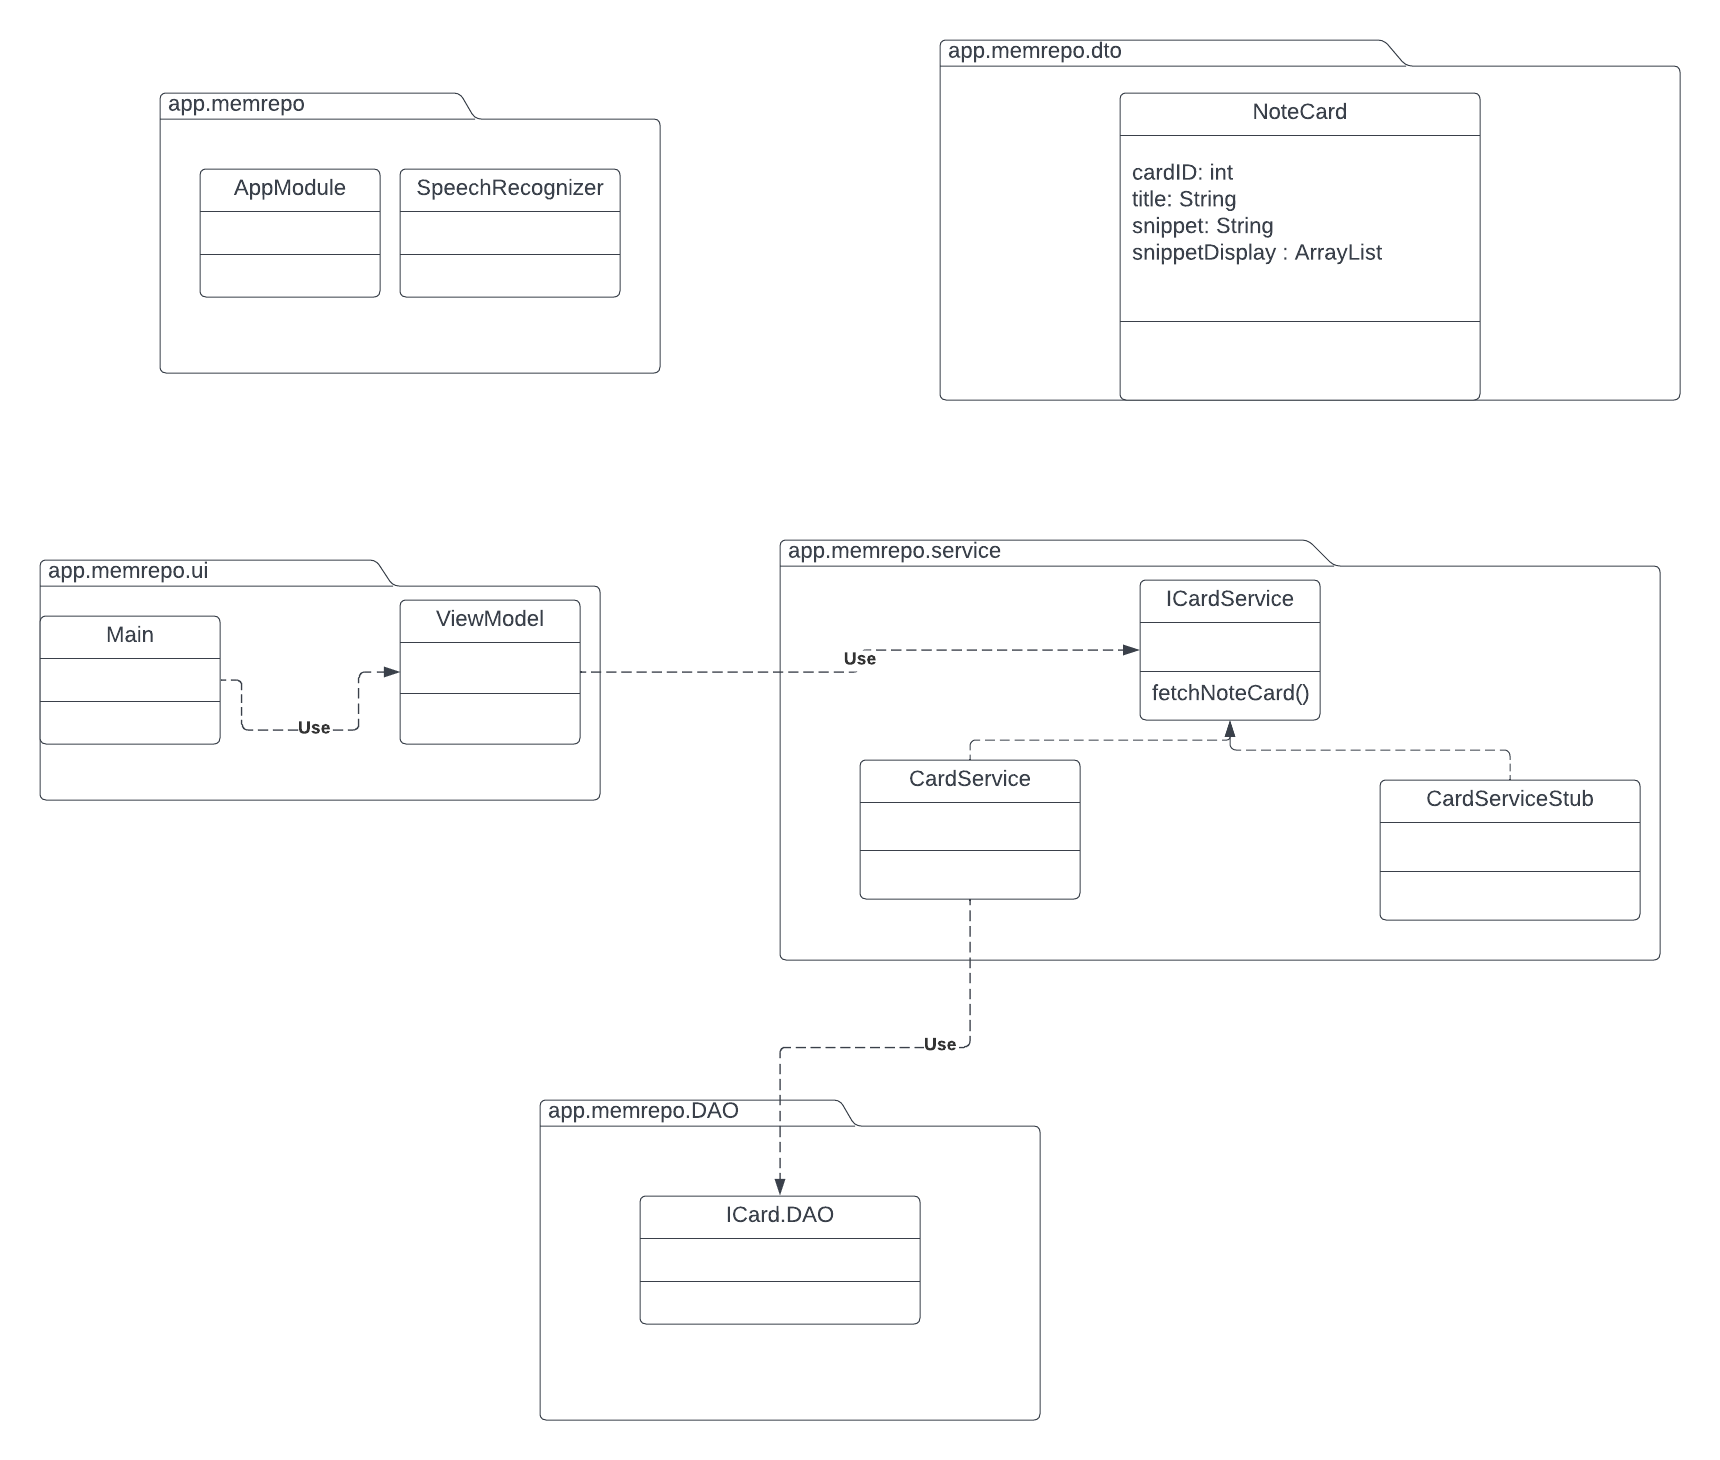
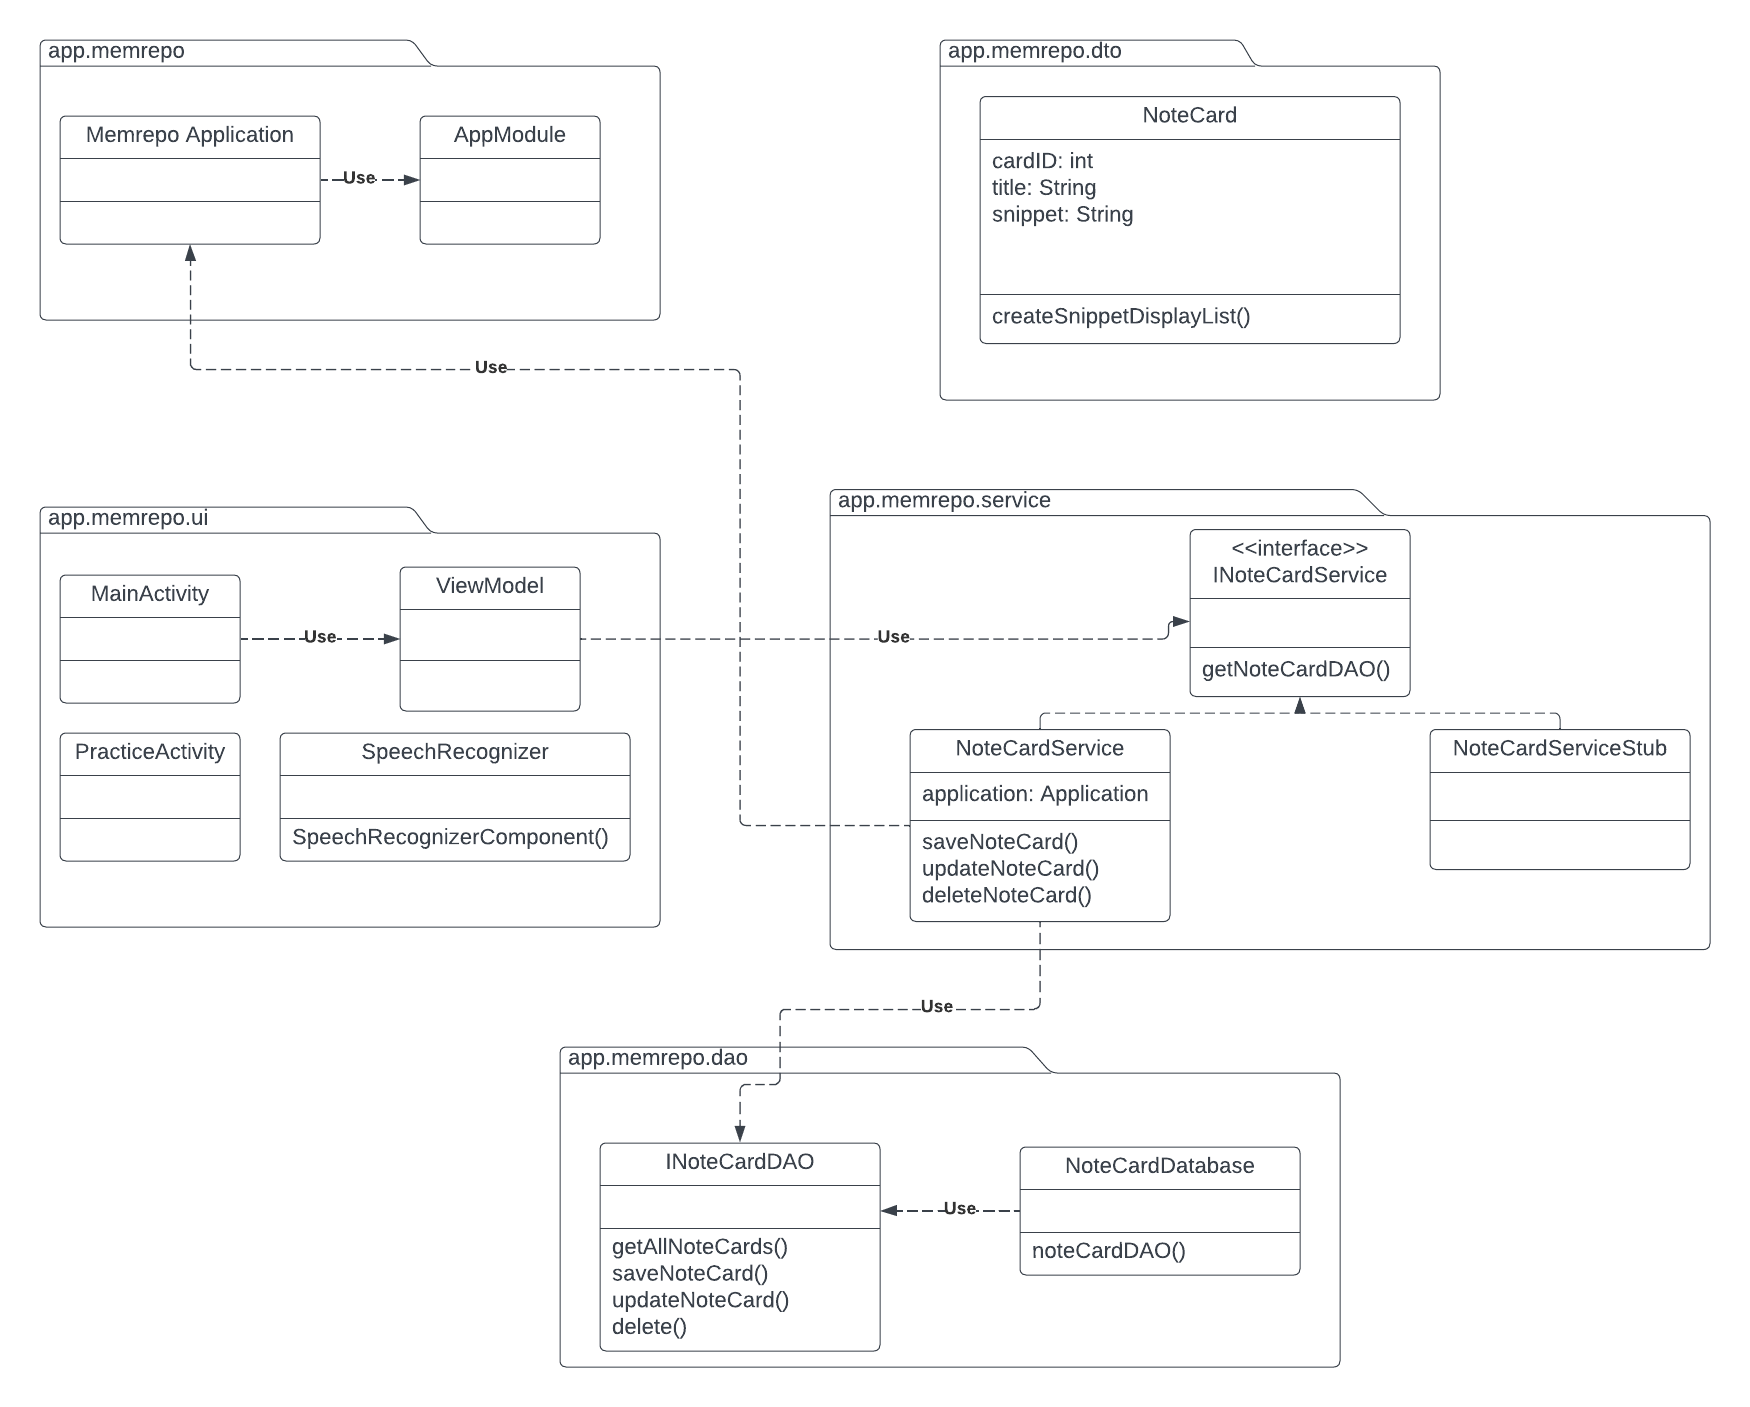
Update class diagram and packages

diff --git a/app/src/main/java/com/memrepo/service/NoteCardService.kt b/app/src/main/java/com/memrepo/service/NoteCardService.kt
@@ -4,19 +4,19 @@ import android.app.Application
 import android.content.ContentValues.TAG
 import android.util.Log
 import androidx.room.Room
-import com.memrepo.dao.ICardDAO
+import com.memrepo.dao.INoteCardDAO
 import com.memrepo.dao.NoteCardDatabase
 import com.memrepo.dto.NoteCard
 
 interface INoteCardService {
-    fun getNoteCardDAO() : ICardDAO
+    fun getNoteCardDAO() : INoteCardDAO
 }
 
 class NoteCardService(val application: Application) : INoteCardService {
 
     lateinit var db: NoteCardDatabase
 
-    override fun getNoteCardDAO() : ICardDAO {
+    override fun getNoteCardDAO() : INoteCardDAO {
         if (!this::db.isInitialized) {
             db = Room.databaseBuilder(application, NoteCardDatabase::class.java, "Memrepo").build()
         }

diff --git a/app/src/main/java/com/memrepo/ui/PracticeActivity.kt b/app/src/main/java/com/memrepo/ui/PracticeActivity.kt
@@ -1,4 +1,4 @@
-package com.memrepo
+package com.memrepo.ui
 
 import android.annotation.SuppressLint
 import android.content.Intent
@@ -13,12 +13,11 @@ import androidx.compose.runtime.Composable
 import androidx.compose.ui.Alignment
 import androidx.compose.ui.Modifier
 import androidx.compose.ui.platform.LocalContext
-import androidx.compose.ui.text.style.TextAlign
 import androidx.compose.ui.tooling.preview.Preview
 import androidx.compose.ui.unit.dp
 import androidx.compose.ui.unit.sp
+import com.memrepo.ui.MainActivity
 import com.memrepo.ui.theme.MemrepoTheme
-import kotlinx.coroutines.launch
 
 class PracticeActivity : ComponentActivity() {
     override fun onCreate(savedInstanceState: Bundle?) {

diff --git a/app/src/main/java/com/memrepo/ui/MainActivity.kt b/app/src/main/java/com/memrepo/ui/MainActivity.kt
@@ -1,4 +1,4 @@
-package com.memrepo
+package com.memrepo.ui
 
 import android.annotation.SuppressLint
 import android.content.Intent
@@ -11,8 +11,6 @@ import androidx.compose.foundation.lazy.LazyColumn
 import androidx.compose.foundation.lazy.items
 import androidx.compose.foundation.shape.RoundedCornerShape
 import androidx.compose.material.*
-import androidx.compose.material.icons.Icons
-import androidx.compose.material.icons.filled.Add
 import androidx.compose.runtime.*
 import androidx.compose.runtime.livedata.observeAsState
 import androidx.compose.ui.Alignment

diff --git a/app/src/main/java/com/memrepo/AppModule.kt b/app/src/main/java/com/memrepo/AppModule.kt
@@ -1,7 +1,7 @@
 package com.memrepo
 
-import android.app.Application
 import com.memrepo.service.NoteCardService
+import com.memrepo.ui.MainViewModel
 import org.koin.android.ext.koin.androidApplication
 import org.koin.androidx.viewmodel.dsl.viewModel
 import org.koin.dsl.module

diff --git a/app/src/main/java/com/memrepo/dao/INoteCardDAO.kt b/app/src/main/java/com/memrepo/dao/INoteCardDAO.kt
@@ -8,7 +8,7 @@ import com.memrepo.dto.NoteCard
  * Interface that implements CRUD functions from the DAO.
  */
 @Dao
-interface ICardDAO {
+interface INoteCardDAO {
 
     /**
      * getAllNoteCards makes a basic SQLLite statement that grabs all NoteCards from the database.

diff --git a/app/src/main/java/com/memrepo/dao/NoteCardDatabase.kt b/app/src/main/java/com/memrepo/dao/NoteCardDatabase.kt
@@ -6,5 +6,5 @@ import com.memrepo.dto.NoteCard
 
 @Database(entities=[NoteCard::class], version = 1)
 abstract class NoteCardDatabase : RoomDatabase() {
-    abstract fun noteCardDAO() : ICardDAO
+    abstract fun noteCardDAO() : INoteCardDAO
 }

diff --git a/app/src/main/java/com/memrepo/ui/MainViewModel.kt b/app/src/main/java/com/memrepo/ui/MainViewModel.kt
@@ -1,4 +1,4 @@
-package com.memrepo
+package com.memrepo.ui
 
 import androidx.lifecycle.ViewModel
 import androidx.lifecycle.viewModelScope
